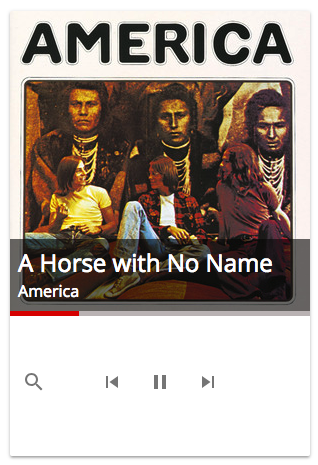
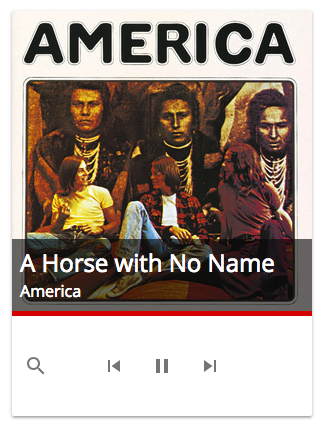
Remove unneeded assets in docs dir. Update player picture

diff --git a/README.md b/README.md
@@ -1,6 +1,5 @@
 <div align="center">
   <a target="_blank" href="https://theodoreli.github.io/spotify-player/">
-    <img src="https://raw.githubusercontent.com/theodoreli/spotify-player/master/docs/search.png"/>
     <img src="https://raw.githubusercontent.com/theodoreli/spotify-player/master/docs/player.png"/>
   </a>
 </div>
